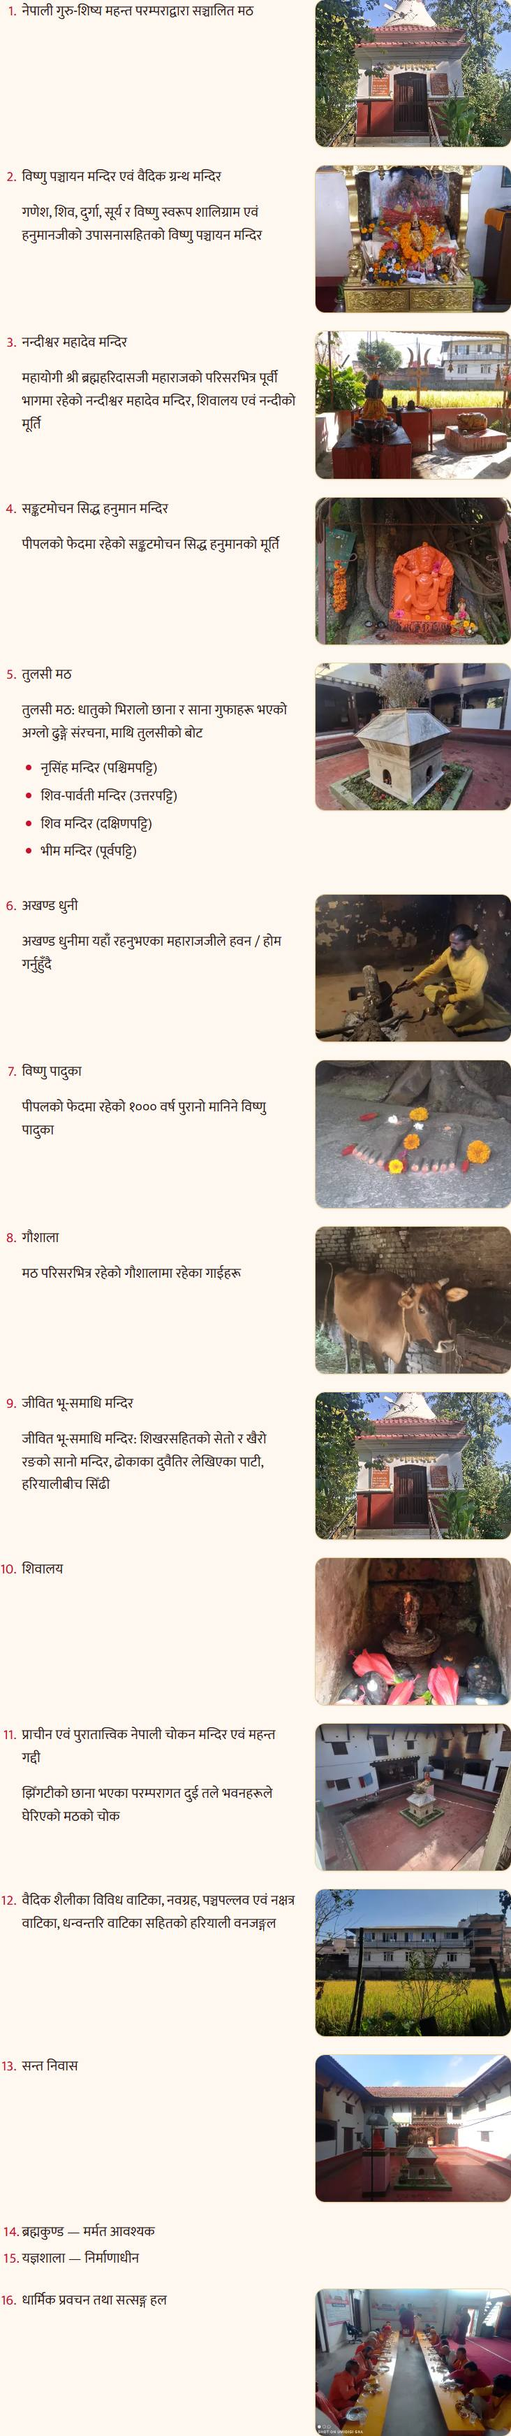
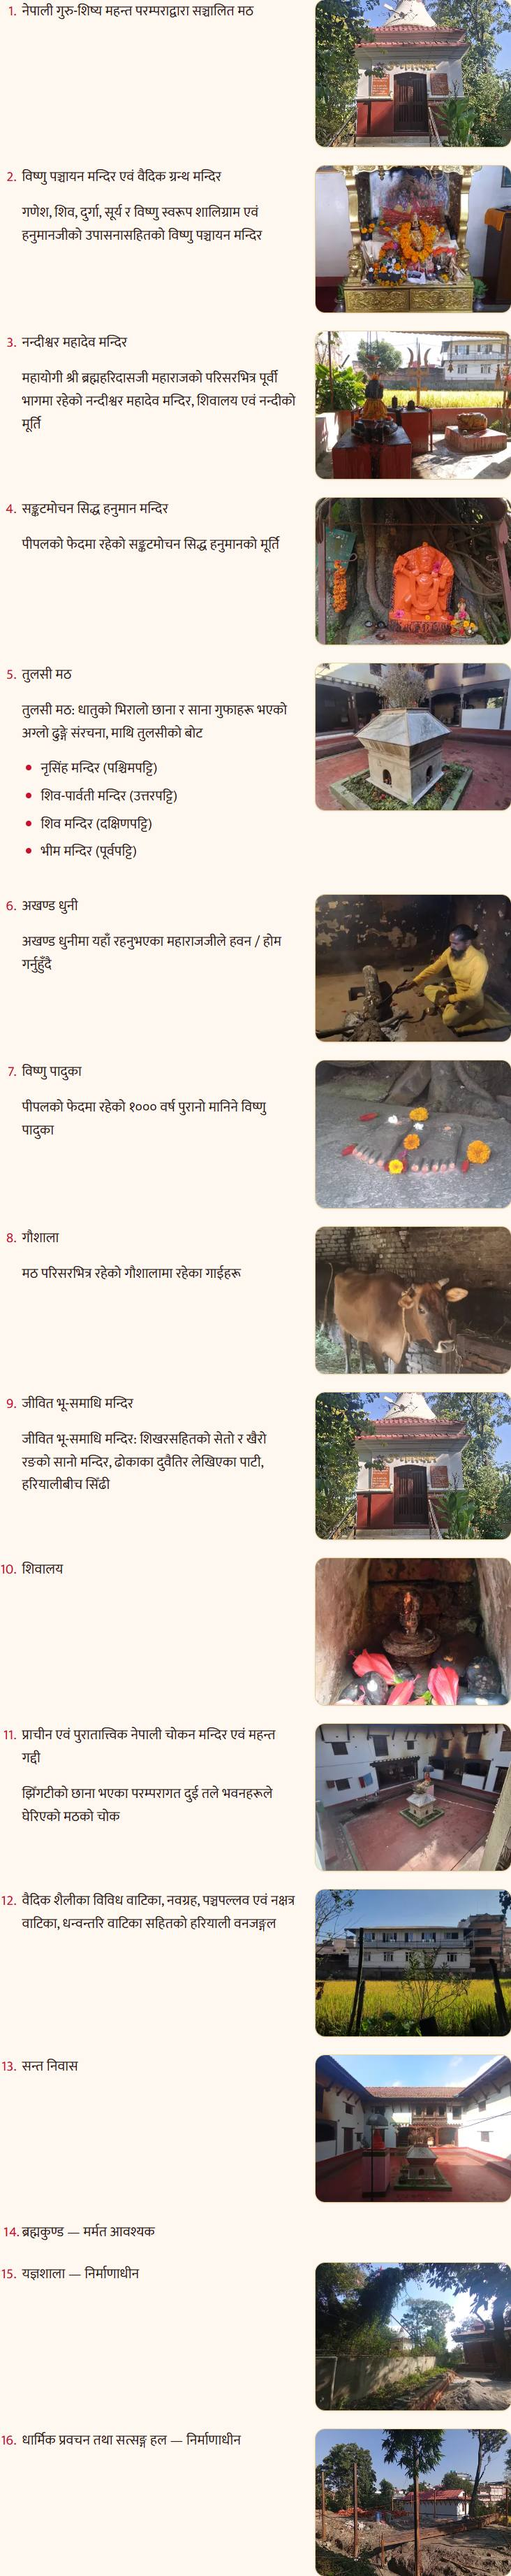
Nanak heritage list: yajnashala and satsang hall under construction, with the team's photos
- Items 15 (yajnashala) and 16 (satsang hall) read "— under construction" /
  "— निर्माणाधीन" and show the team's construction photos (new gallery photos
  yajnashala-construction.webp and satsang-hall-construction.webp, no captions).
- Fixes a wrong NE edit in the previous commit (the note had been added to the
  16th mahant in the mahant list instead of heritage item 16).

diff --git a/MISSING_INFO.md b/MISSING_INFO.md
@@ -77,7 +77,7 @@ Most of the missing Mhepi Ajima content, and all ward information, is probably i
 - [ ] **Typos in the Nepali to check (not changed):** "बुद्धिदास महाराजको तिथ" (तिथि); "वि.सं. २०८० असाेज" typed as ा+े (असोज); "वासन्तीक नवरात्र" (वासन्तिक); "विष्णु पञ्चायन" in 4 places (पञ्चायतन elsewhere); "संवर्धन  एवं" double space; "नेपाली चोकन मन्दिर" (चोक?).
 - [ ] **Photos beside "यहाँ भएका सम्पदाहरू" / "The Heritage Here"** (`content/section-photos.json`): matched by Claude using the guru's new photo descriptions. Confirm, especially item 11 (ancient Nepali chok temple and mahant gaddi → `main-courtyard`, the courtyard of the two-storey buildings) and item 2 (`gilded-shrine`, described as the Vishnu Panchayatan temple). No photo yet for items 1, 10 and 12–16.
   - [x] **Item 11 description**: turned on (17 Nov 2026) on confirmation that the courtyard photo matches "the ancient Nepali chok temple and the mahant gaddi". All nine items now show their photo's description.
-  - [x] **Items 10, 12, 13, 16 replaced (17 Nov 2026, from the team's pictures):** 10 Shivalinga in a stone niche (new: `shivalinga-niche.webp`), 12 paddy field, 13 courtyard view, 16 bhandara (re-added); 15 (yajnashala) has no photo and now reads "under construction" / "निर्माणाधीन" (ward team; Nepali by Claude, please check); 14 (Brahma Kunda) has no photo and now reads "in need of repair" / "मर्मत आवश्यक", from the ward team (source key `ward-team`). Nepali wording by Claude; please check. Nepali alt text of `shivalinga-niche.webp` is by Claude; please check.
+  - [x] **Items 10, 12, 13, 16 replaced (17 Nov 2026, from the team's pictures):** 10 Shivalinga in a stone niche (new: `shivalinga-niche.webp`), 12 paddy field, 13 courtyard view, 16 bhandara (re-added; since removed from item 16, still in the gallery); 15 (yajnashala) and 16 (satsang hall) now read "under construction" / "निर्माणाधीन" and show the team's construction photos (new: `yajnashala-construction.webp`, `satsang-hall-construction.webp`; Nepali alt text by Claude, please check) (ward team; Nepali by Claude, please check); 14 (Brahma Kunda) has no photo and now reads "in need of repair" / "मर्मत आवश्यक", from the ward team (source key `ward-team`). Nepali wording by Claude; please check. Nepali alt text of `shivalinga-niche.webp` is by Claude; please check.
   - [x] **Items 1, 10, 12–16** (superseded for 10, 12, 13, 16 by the line above) (17 Nov 2026, chosen by the team from the gallery's 4-column grid): 1 samadhi temple, 10 statue of Mahant Buddhidas, 12 Hanuman shrine under the peepal tree, 13 Nandi & Shivalinga, 14 heritage signboard, 15 painting of Brahmaharidas, 16 painting of Gothalramdas, all **without** captions. Now every item has a photo. Three photos appear twice in the list (samadhi temple: 1 and 9; Hanuman shrine: 4 and 12; Nandi & Shivalinga: 3 and 13); swap them for photos of the actual places when the team has them.
 - [ ] **Alternative name "Siddheshwar Mahadev" — needs a source.** Given by the ward team (13 Nov 2026) but not confirmed. It was removed from the chatbot topic label in the Phase 9 review and is **not shown anywhere** on the site.
   - A search of raw-data found **no occurrence** of Siddheshwar / सिद्धेश्वर (or its spelling variants) in the docx, the transcribed signboards and inscriptions, or any file name. The three web sources don't mention it either.
@@ -87,7 +87,7 @@ Most of the missing Mhepi Ajima content, and all ward information, is probably i
 - [ ] **"1450"**: the docx says Brahmaharidas practised at the math "from 1450" without naming the era. The content assumes VS, to match his VS 1432 birth.
 - [ ] **Name and spelling**: Nanak Math / Nanak Mantha / Prachin Udasin (Udashin) Nanak Math; नानक मठ / नानकमठ. Confirm the preferred English and Nepali forms.
 - [x] **Photographed features identified** by the guru's review (alt text, 17 Nov 2026): the statue under the canopy is Brahmaleen Mahant Shri Buddhidas Ji Maharaj; the orange image under the tree is Sankatmochan Siddha Hanuman; the three garlanded platforms are the samadhi of the maharajs; the shrine room is where the sadhus keep and worship the Vedic texts; the gilded shrine is the Vishnu Panchayatan temple.
-  - [ ] Still open: is the construction site in the photos the yajnashala?
+  - [x] The construction photos: the team identified one as the yajnashala and one as the satsang hall, both under construction (17 Nov 2026).
 - [ ] **Who wrote the docx?** It speaks of "my gurudev" and appears to be by the current mahant. This is needed for attribution.
 - [ ] **Review of the English translation** of the docx (by Claude)
 

diff --git a/content/heritage/nanak-math.ne.md b/content/heritage/nanak-math.ne.md
@@ -76,6 +76,10 @@ gallery:
     alt: "सानो ढुङ्गे गुफामा रहेको शिवलिङ्ग, वरिपरि काला ढुङ्गा र राता फूलहरू"
   - src: "/images/nanak-math/bhandara.webp"
     alt: "भण्डारामा लहरै बसेर भोजन गर्दै साधुसन्त"
+  - src: "/images/nanak-math/yajnashala-construction.webp"
+    alt: "निर्माणाधीन यज्ञशाला: झिँगटीको छाना भएको इँटाको भवन"
+  - src: "/images/nanak-math/satsang-hall-construction.webp"
+    alt: "धार्मिक प्रवचन तथा सत्सङ्ग हल निर्माण भइरहेको ठाउँमा फलामका खम्बा र निर्माण सामग्री"
 ---
 
 <!-- स्रोत: raw-data "Guru Nanak Mantha/Nanak Mantha.docx" (DOCX) र स्थलमा खिचिएका पाटी/साइनबोर्डका फोटो। -->
@@ -177,7 +181,7 @@ gallery:
 
 ## यहाँ भएका सम्पदाहरू {#architecture}
 
-<!-- source: nanak-account, ward-team | DOCX सम्पदा सूची (१–१६) + Additional info; १४ "मर्मत आवश्यक" र १५ "निर्माणाधीन" वडा टोलीबाट, १७ नोभेम्बर २०२६ -->
+<!-- source: nanak-account, ward-team | DOCX सम्पदा सूची (१–१६) + Additional info; १४ "मर्मत आवश्यक" र १५, १६ "निर्माणाधीन" वडा टोलीबाट, १७ नोभेम्बर २०२६ -->
 मठमा रहेका पुरातात्विक, ऐतिहासिक, प्राचीन भौतिक संरचना एवं सम्पदाहरू:
 
 1. नेपाली गुरु-शिष्य महन्त परम्पराद्वारा सञ्चालित मठ
@@ -199,7 +203,7 @@ gallery:
 13. सन्त निवास
 14. ब्रह्मकुण्ड — मर्मत आवश्यक
 15. यज्ञशाला — निर्माणाधीन
-16. धार्मिक प्रवचन तथा सत्सङ्ग हल
+16. धार्मिक प्रवचन तथा सत्सङ्ग हल — निर्माणाधीन
 
 <!-- ### मठका जिन्सी सामग्री {#treasures} -->
 

diff --git a/content/heritage/nanak-math.en.md b/content/heritage/nanak-math.en.md
@@ -76,6 +76,10 @@ gallery:
     alt: "A Shivalinga in a small stone niche, surrounded by black stones and red hibiscus flowers"
   - src: "/images/nanak-math/bhandara.webp"
     alt: "Sadhus seated in rows for a shared meal (bhandara)"
+  - src: "/images/nanak-math/yajnashala-construction.webp"
+    alt: "The yajnashala under construction: a brick building with a tiled roof"
+  - src: "/images/nanak-math/satsang-hall-construction.webp"
+    alt: "Steel posts and building materials where the hall for religious discourses and satsang is under construction"
 ---
 
 <!-- Sources: raw-data "Guru Nanak Mantha/Nanak Mantha.docx" (cited as DOCX) and signboards photographed on site (cited by original filename). English translated from the Nepali sources. -->
@@ -180,7 +184,7 @@ Puja and readings for the Vishnu Panchayatan deities and the sacred texts, and p
 
 ## The Heritage Here {#architecture}
 
-<!-- source: nanak-account, ward-team | DOCX heritage list (items 1–16) + "Additional info"; items 14 "in need of repair" and 15 "under construction" from the ward team, 17 Nov 2026 -->
+<!-- source: nanak-account, ward-team | DOCX heritage list (items 1–16) + "Additional info"; items 14 "in need of repair", 15 and 16 "under construction" from the ward team, 17 Nov 2026 -->
 The math lists these archaeological, historical and ancient structures and heritage within its grounds:
 
 1. The math, run by the Nepali guru–disciple mahant tradition
@@ -202,7 +206,7 @@ The math lists these archaeological, historical and ancient structures and herit
 13. Sant niwas (residence for saints)
 14. The Brahma Kunda — in need of repair
 15. The yajnashala — under construction
-16. A hall for religious discourses and satsang
+16. A hall for religious discourses and satsang — under construction
 
 <!-- source: nanak-account | DOCX inventory ("जिन्सी सामग्रीहरू") -->
 <!-- ### Treasures of the math {#treasures} -->

diff --git a/docs/screenshots/nanak-list-photos/README.md b/docs/screenshots/nanak-list-photos/README.md
@@ -11,8 +11,8 @@ Photos added for items without one, chosen by the team. None of these show a cap
 | 12. Green forest and gardens | paddy field |
 | 13. Sant niwas | courtyard view |
 | 14. Brahma Kunda | no photo; the item now reads "in need of repair" / "मर्मत आवश्यक" |
-| 15. Yajnashala | no photo; the item now reads "under construction" / "निर्माणाधीन" |
-| 16. Satsang hall | sadhus at a shared meal (`bhandara.webp`, re-added with consent and the photographer's permission) |
+| 15. Yajnashala | the yajnashala under construction (`yajnashala-construction.webp`, new); the item reads "under construction" / "निर्माणाधीन" |
+| 16. Satsang hall | the hall's construction site (`satsang-hall-construction.webp`, new); the item reads "under construction" / "निर्माणाधीन". (`bhandara.webp` stays in the gallery.) |
 
 Items 2–9 and 11 keep their photos and captions. One photo appears twice in the list: the samadhi temple (items 1 and 9).
 
